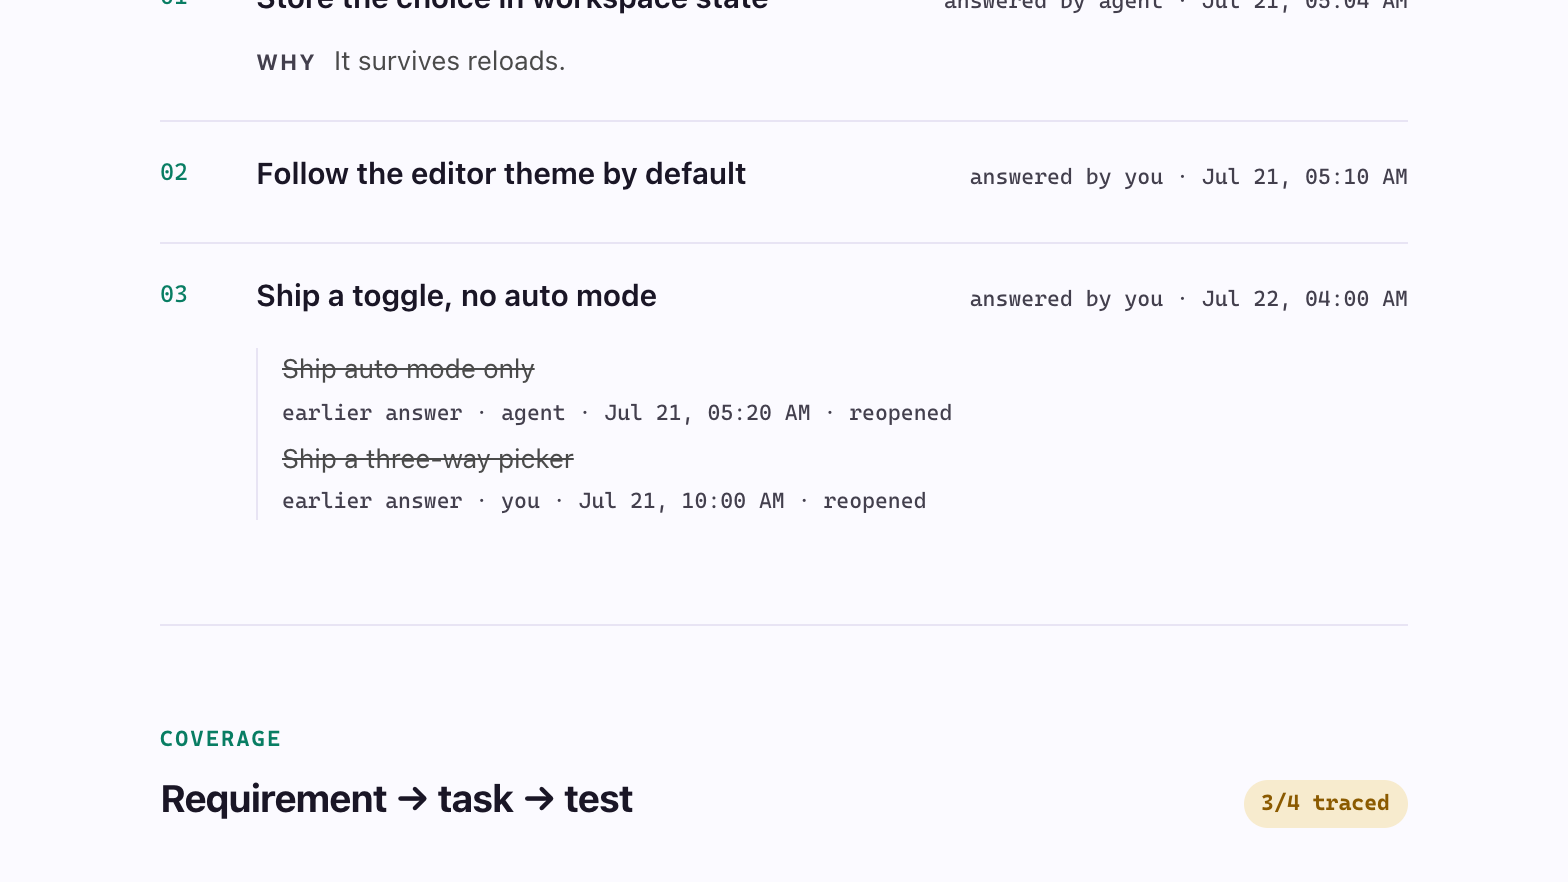
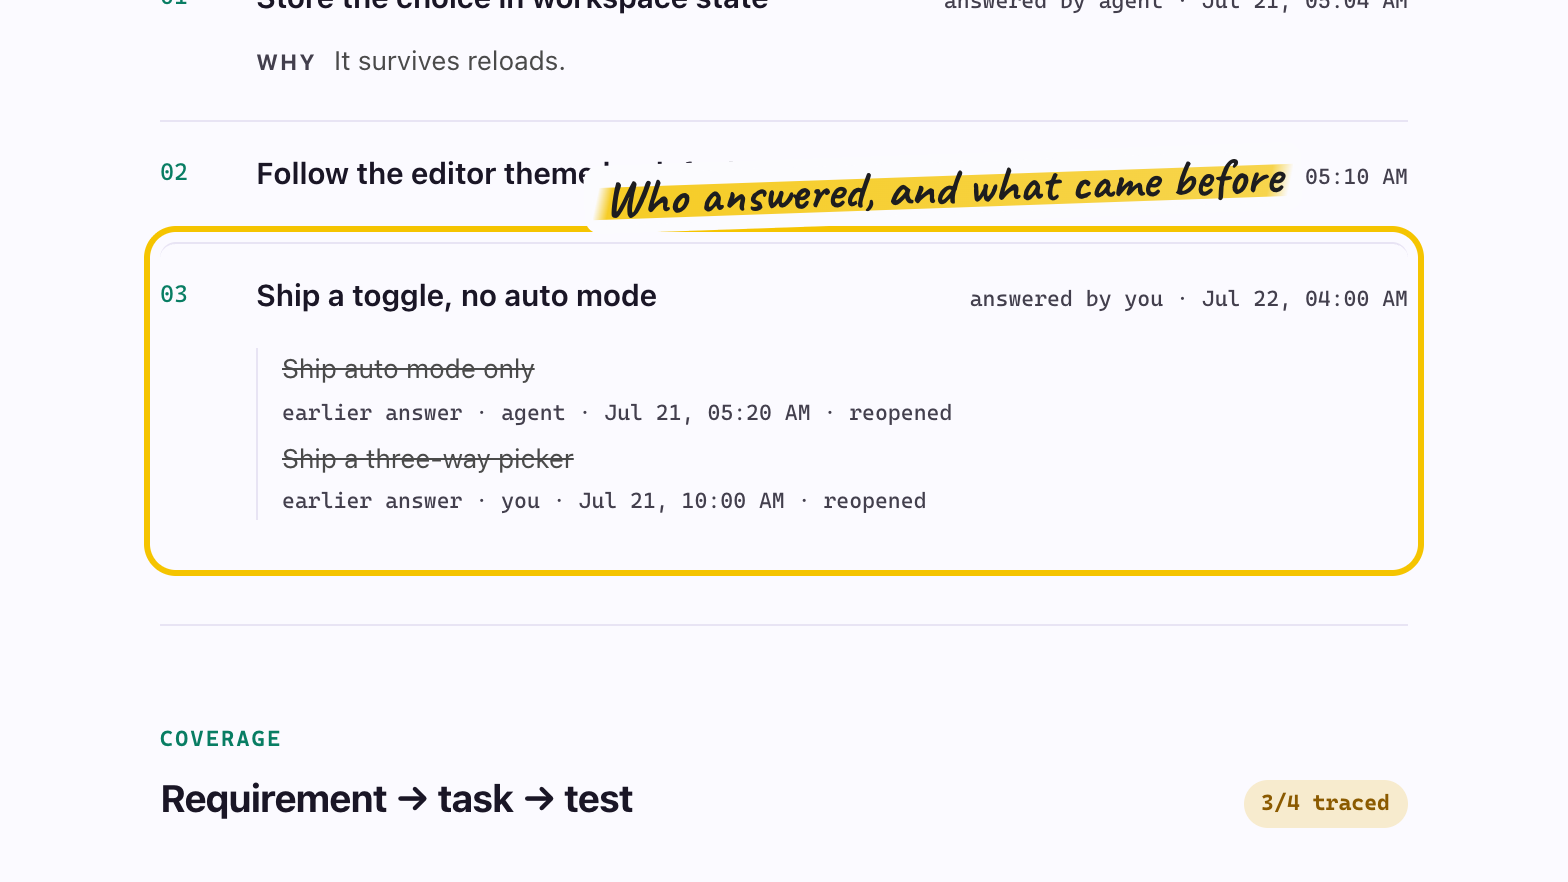
docs(site): marked release-note shots for 0.38.0, and the tool that makes them

Changed region(s): [[0.0938, 0.1837, 0.9062, 0.2755], [0.0938, 0.6122, 0.9062, 0.6735]]

diff --git a/.claude/commands/publish.md b/.claude/commands/publish.md
@@ -29,6 +29,7 @@ Help the user publish a new version of the extension by:
    - The README install and first-run steps still match what ships, and the README "VS Code" badge matches `engines.vscode` in `package.json`.
    - Re-render any screenshot whose UI changed in this release. Overwrite in place; never rename or delete a screenshot file.
    - Give each highlight its screenshots on the site's changelog. Name them in the highlight's comment (`media: builder-move-hook, builder-side-panel`) and add one entry per shot under the release's `vscode@<version>` key in `content/media/changelog.json`: `file` (a generated still under `docs/screenshots/generated/`, or a real-app screenshot copied to `apps/website/public/changelog/`), `alt`, a one-line `caption`, and a `highlight` box `{x, y, w, h}` in the image's own pixels when there is a clear changed area. Several shots make a carousel. Do it after the version heading exists.
+   - Make each shot with `node tooling/scripts/release-shot.mjs <storyId> <outBase> "<label>" <selector>` while Storybook runs: a 16:9 frame cropped to the change, readable on a phone, with a sketchy marker label on a yellow highlight and a yellow outline drawn in. Ship the `.marked.png` and leave `highlight` out of its entry, so the site does not draw a second box.
    - The site builds: `cd apps/website && npm run build && npx astro check`. The build fails on a media id with no entry, a missing alt or file, a shot no highlight names, and a key that matches no release.
    - If the release touches `apps/speckit-extension/`, say so: the spec-kit extension ships separately with `/publish-speckit-ext`, and changes there (Auto folding, the writer) reach users only through it.
 6. Update documentation files with the new version:
